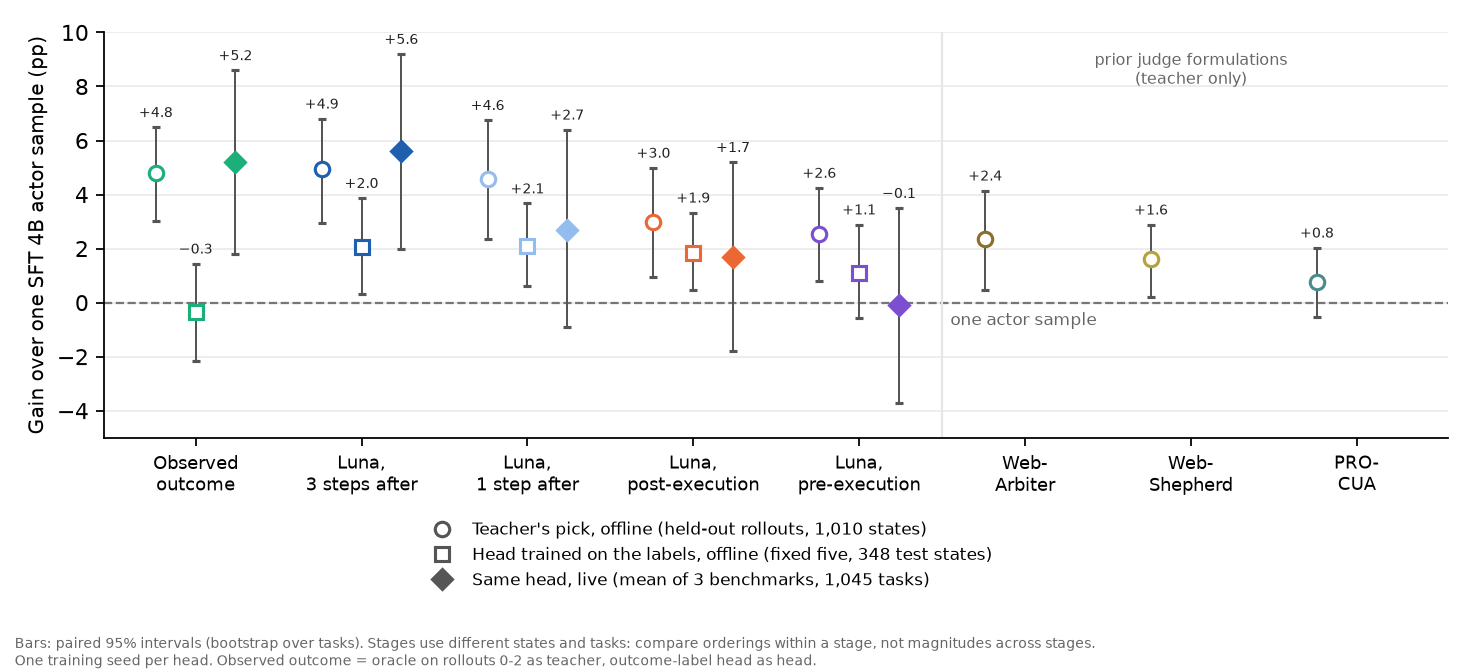
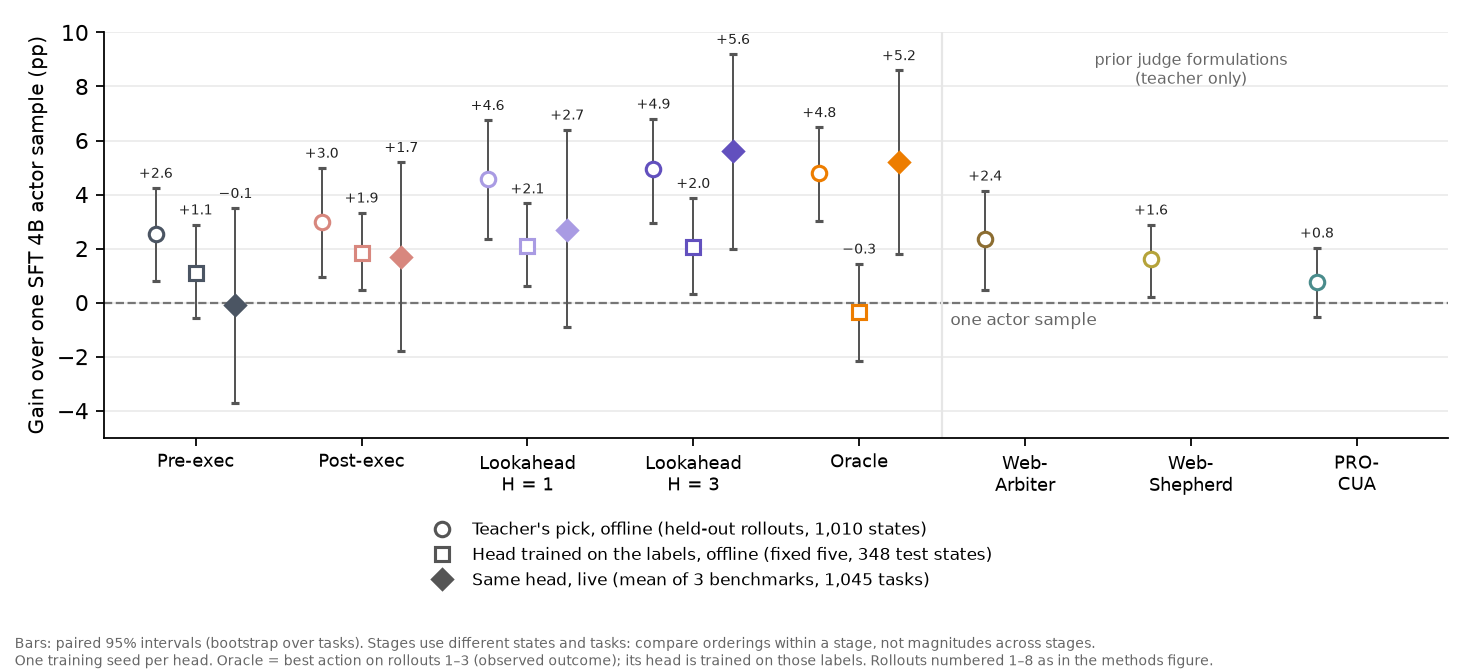
Selection head label plots: colours, names and rollout numbering from the offline-eval methods figure

diff --git a/openwebrl/docs/arm_results/rl_integration/selection-label-setups-20261027-plot.py b/openwebrl/docs/arm_results/rl_integration/selection-label-setups-20261027-plot.py
@@ -1,9 +1,9 @@
 #!/usr/bin/env python3
 """Label sources, one panel per evaluation setup: gain over one SFT 4B actor sample, shared y-axis.
 
-(1) Offline, training states: the 1,380 SFT-action branch states the heads were trained on. Labels came from rollouts 0-2;
-    each state's first five SFT proposals (duplicates kept) are scored on held-out rollouts 3-7.
-(2) Offline, held-out states: 345 test states (86 tasks), same five proposals and rollouts 3-7.
+(1) Offline, training states: the 1,380 SFT-action branch states the heads were trained on. Labels came from rollouts 1-3;
+    each state's first five SFT proposals (duplicates kept) are scored on held-out rollouts 4-8.
+(2) Offline, held-out states: 345 test states (86 tasks), same five proposals and rollouts 4-8.
     Teacher = the label's argmax among the five (ties averaged); head = the seed-0 head, the one run live
     (selection-label-same-state-20261027.json).
 (3) Live: the seed-0 head, three-benchmark mean overall success (Online-Mind2Web 300 by gpt-5.6-terra, WebVoyager 595 and
@@ -23,16 +23,16 @@ LIVE = json.loads((HERE / "selection-data-scale-20261023.json").read_text())["th
 EXTRA = json.loads((HERE / "selection-label-stages-20261027.json").read_text()).get("live", {})
 INK, MUTED = "#222222", "#666666"
 ROWS = [  # tick label, colour, source key, live key
-    ("Outcome", "#1baf7a", "outcome", "Ours outcome"),
-    ("Luna\n3 after", "#1f5fae", "teacher_k3", "Ours K3"),
-    ("Luna\n1 after", "#93bdef", "teacher_k1", "Ours K1"),
-    ("Luna\npost", "#eb6834", "teacher_post", "Ours post"),
-    ("Luna\npre", "#7b4fd0", "teacher_pre", "Ours pre")]
+    ("Pre-exec", "#4B5563", "teacher_pre", "Ours pre"),
+    ("Post-exec", "#D8877E", "teacher_post", "Ours post"),
+    ("Lookahead\nH = 1", "#A99BE3", "teacher_k1", "Ours K1"),
+    ("Lookahead\nH = 3", "#6250BE", "teacher_k3", "Ours K3"),
+    ("Oracle", "#ED7D00", "outcome", "Ours outcome")]
 tr, te = S["splits"]["train"], S["splits"]["test"]
 PANELS = [
-    (f"Offline · training states\n{tr['states']:,} states, {tr['tasks']} tasks; held-out rollouts 3–7", "train",
+    (f"Offline · training states\n{tr['states']:,} states, {tr['tasks']} tasks; held-out rollouts 4–8", "train",
      S["train"]["sft_sample"]),
-    (f"Offline · held-out test states\n{te['states']} states, {te['tasks']} tasks; held-out rollouts 3–7", "test",
+    (f"Offline · held-out test states\n{te['states']} states, {te['tasks']} tasks; held-out rollouts 4–8", "test",
      S["test"]["sft_sample"]),
     ("Live · 3 benchmarks\n1,045 tasks, mean overall success", "live", LIVE["SFT 4B"]["mean_overall"])]
 
@@ -44,7 +44,7 @@ def point(ax, x, v, color, marker, filled):
     ax.text(x, hi + 0.2, f"{d:+.1f}".replace("-", "−"), ha="center", va="bottom", fontsize=6.5, color=INK)
 
 
-fig, axes = plt.subplots(1, 3, figsize=(11, 4.3), sharey=True, gridspec_kw=dict(width_ratios=[1.25, 1.25, 1]))
+fig, axes = plt.subplots(1, 3, figsize=(12, 4.4), sharey=True, gridspec_kw=dict(width_ratios=[1, 1, 1]))
 for ax, (title, split, base) in zip(axes, PANELS):
     ax.axhline(0, color=MUTED, lw=1, ls="--", zorder=0)
     for x, (_, color, src, live) in enumerate(ROWS):
@@ -64,8 +64,8 @@ handles = [Line2D([], [], marker=m, ls="", color="#555555", ms=6.5, markeredgewi
                   markerfacecolor="#555555" if f else "white") for m, f in (("o", False), ("s", True), ("D", True))]
 fig.legend(handles, ["Teacher's pick (label)", "Head trained on the labels (seed 0)", "Same head, live"],
            frameon=False, fontsize=8, loc="lower center", ncol=3, bbox_to_anchor=(0.5, 0.06))
-fig.text(0.01, 0.01, "Offline: each state's first five SFT proposals, scored on rollouts 3–7 (labels used rollouts 0–2 of the "
-         "training states). Bars: paired 95% intervals (bootstrap over tasks). Each panel's baseline is one SFT sample on "
+fig.text(0.01, 0.01, "Offline: each state's first five SFT proposals, scored on held-out rollouts 4–8 (labels used rollouts 1–3 of the "
+         "training states; Oracle = best action on rollouts 1–3).\nBars: paired 95% intervals (bootstrap over tasks). Each panel's baseline is one SFT sample on "
          "its own states or tasks.", fontsize=6.5, color=MUTED)
 fig.tight_layout(rect=(0, 0.12, 1, 1))
 fig.savefig(HERE / "selection-label-setups-20261027.png", dpi=160); plt.close(fig)

diff --git a/openwebrl/docs/arm_results/rl_integration/selection-label-stages-20261027-plot.py b/openwebrl/docs/arm_results/rl_integration/selection-label-stages-20261027-plot.py
@@ -1,16 +1,16 @@
 #!/usr/bin/env python3
 """Labels from teacher to live: for each label source, gain over one sample of the same SFT 4B actor at three stages.
 
-(1) Teacher pick, offline: Luna's (or the oracle's) pick on the 1,010 main-set branch states, scored on held-out rollouts 3-7,
+(1) Teacher pick, offline: Luna's (or the oracle's) pick on the 1,010 main-set branch states, scored on held-out rollouts 4-8,
     minus the actor's first sample (valid draws only; paired 95% task-clustered interval;
     lookahead-draw-split-20261013/curve_fixedfit_main.json).
 (2) Head trained on those labels, offline: the 22.6 M head (seed 0) trained on the 1,380 branch states, fixed-five pick on
-    the 348 held-out test states (86 tasks), held-out draws 3-7, minus one SFT sample (paired 95% interval;
+    the 348 held-out test states (86 tasks), held-out rollouts 4-8, minus one SFT sample (paired 95% interval;
     round1/<source>/fixed-five.json, copied in selection-label-stages-20261027.json).
 (3) Same head, live: three-benchmark mean overall success (Online-Mind2Web 300 by gpt-5.6-terra, WebVoyager 595 and
     DeepShop 150 by GPT-4o) minus one SFT 4B sample (paired 95% bootstrap over tasks; selection-data-scale-20261023.json).
 The three stages use different states and tasks, so compare orderings within a stage, not magnitudes across stages.
-"Observed outcome" is the oracle at stage 1 (best action on rollouts 0-2) and the outcome-label head at stages 2-3. Prior
+"Oracle" is the best action on rollouts 1-3 (observed outcome) at stage 1 and the head trained on those labels at stages 2-3. Prior
 judge formulations (WebArbiter, WebShepherd, PRO-CUA, all Luna) exist only as teachers. Post-execution heads are filled in from
 selection-label-stages-20261027.json when present.
 """
@@ -27,11 +27,11 @@ STAGES = json.loads((HERE / "selection-label-stages-20261027.json").read_text())
 LIVE = json.loads((HERE / "selection-data-scale-20261023.json").read_text())["three_benchmarks"]
 INK, MUTED, GRID = "#222222", "#666666", "#e6e6e6"
 ROWS = [  # label, colour, teacher key, head-offline key, live key
-    ("Observed\noutcome", "#1baf7a", "Best on observed draws", "outcome", "Ours outcome"),
-    ("Luna,\n3 steps after", "#1f5fae", "Lookahead K=3", "teacher_k3", "Ours K3"),
-    ("Luna,\n1 step after", "#93bdef", "Lookahead K=1", "teacher_k1", "Ours K1"),
-    ("Luna,\npost-execution", "#eb6834", "Immediate result", "teacher_post", "Ours post"),
-    ("Luna,\npre-execution", "#7b4fd0", "Before execution", "teacher_pre", "Ours pre"),
+    ("Pre-exec", "#4B5563", "Before execution", "teacher_pre", "Ours pre"),
+    ("Post-exec", "#D8877E", "Immediate result", "teacher_post", "Ours post"),
+    ("Lookahead\nH = 1", "#A99BE3", "Lookahead K=1", "teacher_k1", "Ours K1"),
+    ("Lookahead\nH = 3", "#6250BE", "Lookahead K=3", "teacher_k3", "Ours K3"),
+    ("Oracle", "#ED7D00", "Best on observed draws", "outcome", "Ours outcome"),
     ("Web-\nArbiter", "#8c6d31", "WebArbiter formulation", None, None),
     ("Web-\nShepherd", "#b5a33a", "WebShepherd formulation", None, None),
     ("PRO-\nCUA", "#4a8c8c", "PRO-CUA formulation", None, None)]
@@ -74,7 +74,7 @@ handles = [Line2D([], [], marker=m, ls="", color="#555555", ms=6.5, markeredgewi
                   markerfacecolor="#555555" if f == "filled" else "white") for _, m, f in MARK]
 ax.legend(handles, [l for l, _, _ in MARK], frameon=False, fontsize=7.5, loc="upper center", bbox_to_anchor=(0.45, -0.17), ncol=1)
 fig.text(0.01, 0.01, "Bars: paired 95% intervals (bootstrap over tasks). Stages use different states and tasks: compare orderings "
-         "within a stage, not magnitudes across stages.\nOne training seed per head. Observed outcome = oracle on rollouts 0-2 "
-         "as teacher, outcome-label head as head.", fontsize=6.5, color=MUTED)
+         "within a stage, not magnitudes across stages.\nOne training seed per head. Oracle = best action on rollouts 1–3 (observed "
+         "outcome); its head is trained on those labels. Rollouts numbered 1–8 as in the methods figure.", fontsize=6.5, color=MUTED)
 fig.tight_layout(rect=(0, 0.05, 1, 1))
 fig.savefig(HERE / "selection-label-stages-20261027.png", dpi=160); plt.close(fig)

diff --git a/openwebrl/docs/arm_results/rl_integration/selection-label-same-state-20261027-plot.py b/openwebrl/docs/arm_results/rl_integration/selection-label-same-state-20261027-plot.py
@@ -3,9 +3,9 @@
 SFT 4B actor at five points.
 
 Offline (selection-label-same-state-20261027.json): SFT-action branch states, each state's first five SFT proposals
-(duplicates kept) scored on held-out draws 3-7.
+(duplicates kept) scored on held-out rollouts 4-8.
   - Teacher: the label's argmax among the five (ties averaged). Head: the 22.6 M seed-0 head (the one run live).
-  - Train states: the 1,380 states the heads were trained on (labels came from draws 0-2, so draws 3-7 are still held out).
+  - Train states: the 1,380 states the heads were trained on (labels came from rollouts 1-3, so rollouts 4-8 are still held out).
   - Test states: 345 held-out states (86 tasks).
 Live: the seed-0 head, three-benchmark mean overall success (Online-Mind2Web 300 by gpt-5.6-terra, WebVoyager 595 and
 DeepShop 150 by GPT-4o) minus SFT 4B (selection-data-scale-20261023.json; post-execution from
@@ -25,11 +25,11 @@ LIVE = json.loads((HERE / "selection-data-scale-20261023.json").read_text())["th
 EXTRA = json.loads((HERE / "selection-label-stages-20261027.json").read_text()).get("live", {})
 INK, MUTED, GRID = "#222222", "#666666", "#e6e6e6"
 ROWS = [  # label, colour, source key, live key
-    ("Observed\noutcome", "#1baf7a", "outcome", "Ours outcome"),
-    ("Luna,\n3 steps after", "#1f5fae", "teacher_k3", "Ours K3"),
-    ("Luna,\n1 step after", "#93bdef", "teacher_k1", "Ours K1"),
-    ("Luna,\npost-execution", "#eb6834", "teacher_post", "Ours post"),
-    ("Luna,\npre-execution", "#7b4fd0", "teacher_pre", "Ours pre")]
+    ("Pre-exec", "#4B5563", "teacher_pre", "Ours pre"),
+    ("Post-exec", "#D8877E", "teacher_post", "Ours post"),
+    ("Lookahead\nH = 1", "#A99BE3", "teacher_k1", "Ours K1"),
+    ("Lookahead\nH = 3", "#6250BE", "teacher_k3", "Ours K3"),
+    ("Oracle", "#ED7D00", "outcome", "Ours outcome")]
 tr, te = S["splits"]["train"], S["splits"]["test"]
 MARK = [  # legend, marker, filled, dx
     (f"Teacher, train states ({tr['states']:,})", "o", False, -0.32),
@@ -70,7 +70,7 @@ handles = [Line2D([], [], marker=m, ls="", color="#555555", ms=6, markeredgewidt
                   markerfacecolor="#555555" if f else "white") for _, m, f, _ in MARK]
 ax.legend(handles, [l for l, *_ in MARK], frameon=False, fontsize=7.3, loc="upper center", bbox_to_anchor=(0.5, -0.15),
           ncol=3, columnspacing=1.2)
-fig.text(0.01, 0.01, "Offline: first five SFT proposals per state, scored on held-out draws 3-7; head = seed 0, as live. "
+fig.text(0.01, 0.01, "Offline: first five SFT proposals per state, scored on held-out rollouts 4–8; Oracle = best action on rollouts 1–3; head = seed 0, as live. "
          "Live: shaded. Bars: paired 95% intervals (bootstrap over tasks).\nEach point is relative to one SFT "
          f"sample on its own states or tasks (train {S['train']['sft_sample']:.1f}%, test {S['test']['sft_sample']:.1f}%, "
          f"live 3-benchmark mean {LIVE['SFT 4B']['mean_overall']:.1f}%).", fontsize=6.5, color=MUTED)

diff --git a/openwebrl/docs/ARM_FINAL_RESULTS.md b/openwebrl/docs/ARM_FINAL_RESULTS.md
@@ -272,13 +272,13 @@ Its conservative all-attempt model total was $353.582380 ($348.649556 known usag
 - **Methods.** Every selector picks one of five candidates the frozen actor samples per step; "branch" data are the SFT-actor branching states collected for this project ([collection and labels](ARM_FORMULATIONS.md#lookahead-labels-current)), "Piotr's" the GPT-5.5-labelled panels of Piotr's release. SFT rows take a single sample. Training data reads states / panels (with the actions in each panel) / labels. Piotr's panels are five sampled actor actions each (about 13 per state), duplicates included, each labelled with one GPT-5.5 pick made before execution (from the screenshot and candidates only). Branch panels are one per state holding its 2–5 distinct SFT-proposed actions, reshuffled each epoch; branch states come from the tasks of Piotr's training split.
 - <a id="final-paired-bootstrap"></a>**How the paired 95% intervals are computed** (every "pp [95% CI]" difference and every plot error bar in the selection-head results). Both runs use the same frozen task list. Each task scores 1 if its single episode is valid and judged successful, else 0 (invalid episodes count as failures), and the per-task difference is d = run − reference ∈ {−1, 0, +1}; the point estimate is the mean of d. For one benchmark, draw 10,000 resamples of its tasks with replacement, each the size of the benchmark, and take the mean of d in each. For the three-benchmark mean, resample tasks independently within each benchmark (keeping 300 / 595 / 150 tasks) and average the three resampled means with weight 1/3 each. The interval is the 2.5th to 97.5th percentile of the 10,000 resampled values. The random seed is fixed in each analysis script (e.g. NumPy `default_rng(20261018)`; the data-scaling script uses Python `random.Random(0)`). Pairing on tasks removes task-difficulty variance shared by the two runs, so these intervals are narrower than comparing two per-run intervals; they do not include training-seed variance (one seed per live head), episode-sampling variance beyond the one episode per task, or run-date drift (DeepShop).
 - **Paired differences on the mean overall rate, pp [95% bootstrap, tasks resampled within each benchmark].** vs SFT 4B: Piotr +6.7 [+3.0, +10.4], Piotr-data head +8.1 [+4.4, +11.8], outcome +5.9 [+2.5, +9.4], K = 3 +5.8 [+2.1, +9.5], K = 1 +2.2 [−1.5, +5.8], pre-execution −0.7 [−4.2, +2.8], SFT 8B +3.3 [−0.3, +6.9]. vs Piotr: Piotr-data head +1.4 [−2.1, +4.9], outcome −0.8 [−4.5, +2.8], K = 3 −0.9 [−4.5, +2.7], K = 1 −4.5 [−8.3, −0.8], pre-execution −7.4 [−11.1, −3.8], SFT 8B −3.4 [−7.3, +0.4]. Piotr-data head − SFT 8B +4.8 [+1.0, +8.5]. Valid-only differences (tasks valid under both) agree within 1.1 pp.
-- **From teacher to live, per label source.** For each label, three gains over one sample of the same SFT 4B actor: the teacher's own pick offline (held-out rollouts 3–7 on the 1,010 main-set branch states; [details](ARM_FORMULATIONS.md#lookahead-labels-current)), the head trained on those labels offline (fixed five on the 348 test states) and the same head live (three-benchmark mean). The stages use different states and tasks, so compare orderings within a stage, not sizes across stages. Online-Mind2Web here uses the current gpt-5.6-terra judge (all runs re-judged from saved requests), so the live gains are slightly lower than the o4-mini numbers above. Post-execution labels (Luna judging each action from its immediate result) were added on 2026-10-27: its head gains +1.8 pp offline and +1.7 pp [−1.8, +5.2] live (Online-Mind2Web −0.3, WebVoyager +4.0, DeepShop +1.3; [data](arm_results/rl_integration/selection-post-label-20261027.json)), close to the one-step-after head; DeepShop SFT varied 26.7–34.0% across three runs, so DeepShop gains carry run-date drift. Bars are [paired 95% intervals](#final-paired-bootstrap). [Plot script](arm_results/rl_integration/selection-label-stages-20261027-plot.py) · [data](arm_results/rl_integration/selection-label-stages-20261027.json)
+- **From teacher to live, per label source.** For each label, three gains over one sample of the same SFT 4B actor: the teacher's own pick offline (held-out rollouts 4–8 on the 1,010 main-set branch states; [details](ARM_FORMULATIONS.md#lookahead-labels-current)), the head trained on those labels offline (fixed five on the 348 test states) and the same head live (three-benchmark mean). The stages use different states and tasks, so compare orderings within a stage, not sizes across stages. Online-Mind2Web here uses the current gpt-5.6-terra judge (all runs re-judged from saved requests), so the live gains are slightly lower than the o4-mini numbers above. Post-execution labels (Luna judging each action from its immediate result) were added on 2026-10-27: its head gains +1.8 pp offline and +1.7 pp [−1.8, +5.2] live (Online-Mind2Web −0.3, WebVoyager +4.0, DeepShop +1.3; [data](arm_results/rl_integration/selection-post-label-20261027.json)), close to the lookahead H = 1 head; DeepShop SFT varied 26.7–34.0% across three runs, so DeepShop gains carry run-date drift. Bars are [paired 95% intervals](#final-paired-bootstrap). [Plot script](arm_results/rl_integration/selection-label-stages-20261027-plot.py) · [data](arm_results/rl_integration/selection-label-stages-20261027.json)
 
   ![Gain over one SFT 4B sample for each label source at three stages: teacher pick offline, trained head offline, trained head live; prior judge formulations as teachers only](arm_results/rl_integration/selection-label-stages-20261027.png)
-- **Same states, train and test (draft, under review).** Teacher and head scored on the same SFT-action branch states, so offline points share states: each state's first five SFT proposals (duplicates kept) on held-out draws 3–7; the head is the seed-0 head, the same one run live. On the 1,380 training states (labels came from draws 0–2) every head matches its teacher within 0.3 pp. On the 345 held-out test states (86 tasks) every teacher gains 4.5–5.2 pp except pre-execution (+2.2); the Luna heads keep about 2 pp of that, the outcome head none (−0.4 [−2.2, +1.4]), yet the outcome head is among the best live. Each point is relative to one SFT sample on its own states or tasks. [Plot script](arm_results/rl_integration/selection-label-same-state-20261027-plot.py) · [data](arm_results/rl_integration/selection-label-same-state-20261027.json)
+- **Same states, train and test (draft, under review).** Teacher and head scored on the same SFT-action branch states, so offline points share states: each state's first five SFT proposals (duplicates kept) on held-out rollouts 4–8; the head is the seed-0 head, the same one run live. On the 1,380 training states (labels came from rollouts 1–3) every head matches its teacher within 0.3 pp. On the 345 held-out test states (86 tasks) every teacher gains 4.5–5.2 pp except pre-execution (+2.2); the Luna heads keep about 2 pp of that, the Oracle (observed-outcome) head none (−0.4 [−2.2, +1.4]), yet it is among the best live. Each point is relative to one SFT sample on its own states or tasks. [Plot script](arm_results/rl_integration/selection-label-same-state-20261027-plot.py) · [data](arm_results/rl_integration/selection-label-same-state-20261027.json)
 
   ![Gain over one SFT 4B sample for each label source: teacher and head on training states, teacher and head on held-out test states, and the head live](arm_results/rl_integration/selection-label-same-state-20261027.png)
-- **Same comparison, one panel per setup (draft, under review).** Training states, held-out test states and live use different states, tasks and SFT baselines, so each gets its own panel; teacher and head are paired only offline, where both are scored. Offline points use held-out rollouts 3–7 in both splits (training-state labels came from rollouts 0–2). [Plot script](arm_results/rl_integration/selection-label-setups-20261027-plot.py)
+- **Same comparison, one panel per setup (draft, under review).** Training states, held-out test states and live use different states, tasks and SFT baselines, so each gets its own panel; teacher and head are paired only offline, where both are scored. Offline points use held-out rollouts 4–8 in both splits (training-state labels came from rollouts 1–3). Names and colours follow the [offline-evaluation methods figure](arm_results/methods/selection-offline-eval-20261022.png) (rollouts numbered 1–8; Oracle = best action on rollouts 1–3; Lookahead H = 1 / 3 = Luna judging 1 / 3 steps after). [Plot script](arm_results/rl_integration/selection-label-setups-20261027-plot.py)
 
   ![Gain over one SFT 4B sample per label source in three panels: offline on training states (teacher and head), offline on held-out test states (teacher and head), and live (head)](arm_results/rl_integration/selection-label-setups-20261027.png)
 - **Online-Mind2Web is where the branch labels fall short.** On WebVoyager and DeepShop the outcome and K3 heads match Piotr; on Online-Mind2Web none clearly beats SFT, while the Piotr-data head does (+7.3 pp [+1.7, +13.0]).
